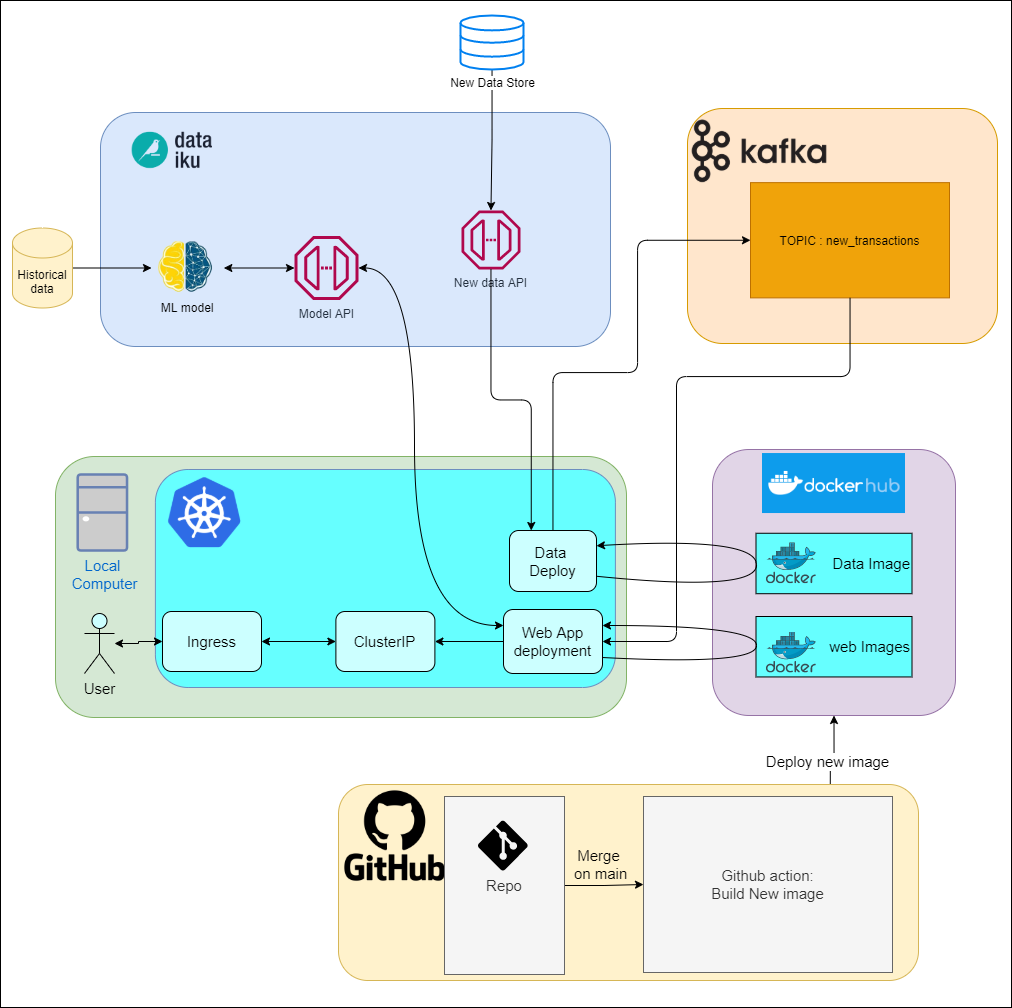
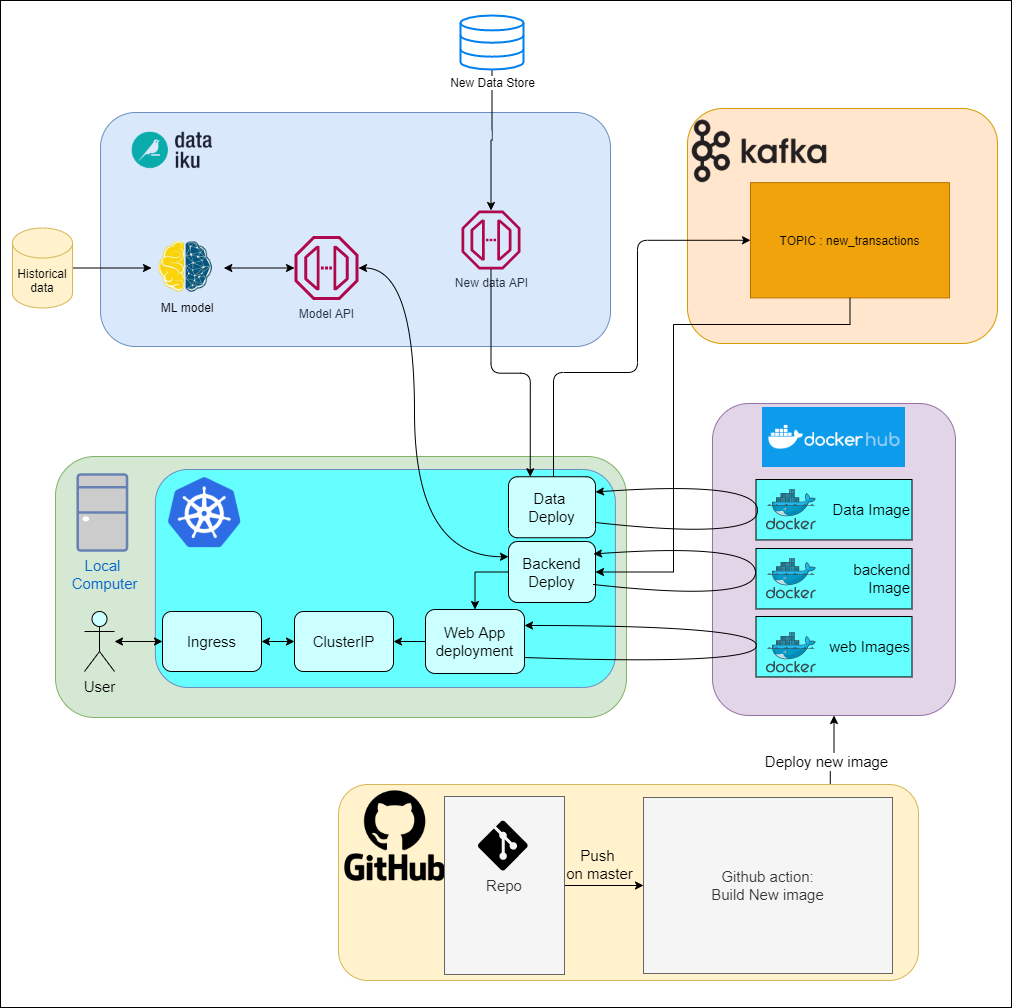
prod fix

diff --git a/webapp/main.py b/webapp/main.py
@@ -1,88 +1,16 @@
-import sys
-from confluent_kafka import Consumer, KafkaError, KafkaException
-import json
-from dotenv import load_dotenv
-import os
-import dataikuapi
-from pathlib import Path
+
 import streamlit as st
 import pandas as pd
 
-client = dataikuapi.APINodeClient("https://api-56ce4d5f-779f448b-dku.eu-west-3.app.dataiku.io/", "AdriPI")
-load_dotenv()
 
-path = Path(os.getenv('KAFKA_CONFIG', 'kafka_config.json'))
-data = path.read_text()
-
-TOPIC = os.getenv('KAFKA_TOPIC_NAME', 'new_transactions')
-config = json.loads(data)
-
-consumer = Consumer(config)
-
-running = True
-
-topics = [TOPIC]
-
-typess = {'age': 'int', 'class of worker': 'str', 'industry code': 'int', 'occupation code': 'int', 'education': 'str',
-          'wage per hour': 'int', 'enrolled in edu inst last wk': 'str', 'marital status': 'str',
-          'major industry code': 'str', 'major occupation code': 'str', 'race': 'str', 'hispanic Origin': 'str',
-          'sex': 'str', 'member of a labor union': 'str', 'reason for unemployment': 'str',
-          'full or part time employment stat': 'str', 'capital gains': 'int', 'capital losses': 'int',
-          'divdends from stocks': 'int', 'tax filer status': 'str', 'region of previous residence': 'str',
-          'state of previous residence': 'str', 'detailed household and family stat': 'str',
-          'detailed household summary in household': 'str', 'instance weight': 'float',
-          'migration code-change in msa': 'str', 'migration code-change in reg': 'str',
-          'migration code-move within reg': 'str', 'live in this house 1 year ago': 'str',
-          'migration prev res in sunbelt': 'str', 'num persons worked for employer': 'int',
-          'family members under 18': 'str', 'country of birth father': 'str', 'country of birth mother': 'str',
-          'country of birth self': 'str', 'citizenship': 'str', 'own business or self employed': 'int',
-          "fill inc questionnaire for veteran's admin": 'str', 'veterans benefits': 'int',
-          'weeks worked in year': 'int', 'year': 'int', 'income level': 'str'}
+def is_good(s):
+    return ['background-color: green'] * len(s) if s.good_prediction else ['background-color: red'] * len(s)
 
 
-def nulachier(values):
-    req: dict = json.loads(values.decode('utf8'))
-    df = pd.DataFrame(req, index=[0])
-    expected = req.pop("income level")
-    time_stamp = req.pop("timestamp")
-    print(time_stamp)
-    print(req)
-    temp = {i: eval(typess[i])(j) for i, j in req.items()}
-    prediction = client.predict_record("model_classifier", temp)
-    df["prediction"] = prediction["result"]["prediction"]
-    df["good_prediction"] = df["prediction"] == expected
-    ret = prediction["result"]
-    print(f"expected: {expected}, got: {ret['prediction']}")
-    return df
+pct = st.empty()
+test = st.empty()
 
-dff = None
-try:
-    consumer.subscribe(topics)
-
-    while running:
-        msg = consumer.poll(timeout=1.0)
-        if msg is None:
-            continue
-
-        if msg.error():
-            if msg.error().code() == KafkaError._PARTITION_EOF:
-                # End of partition event
-                sys.stderr.write('%% %s [%d] reached end at offset %d\n' %
-                                 (msg.topic(), msg.partition(), msg.offset()))
-            elif msg.error():
-                raise KafkaException(msg.error())
-        else:
-
-            print("doing int")
-
-            res = nulachier(msg.value())
-            if dff is None:
-                dff = res
-            else:
-                dff = pd.concat([dff, res])
-            st.write(dff)
-
-
-finally:
-    # Close down consumer to commit final offsets.
-    consumer.close()
+while True:
+    dff = pd.read_csv("/data/dataset.csv")
+    test.dataframe(dff.style.apply(is_good, axis=1))
+    pct.write(f"Percentage of good predictions: {dff['good_prediction'].mean() * 100:.2f}%")

diff --git a/backend/main.py b/backend/main.py
@@ -1,0 +1,97 @@
+import sys
+from confluent_kafka import Consumer, KafkaError, KafkaException
+import json
+from dotenv import load_dotenv
+import os
+import dataikuapi
+from pathlib import Path
+import streamlit as st
+import pandas as pd
+
+client = dataikuapi.APINodeClient("https://api-56ce4d5f-779f448b-dku.eu-west-3.app.dataiku.io/", "AdriPI")
+load_dotenv()
+
+path = Path(os.getenv('KAFKA_CONFIG', '../backend/kafka_config.json'))
+data = path.read_text()
+
+TOPIC = os.getenv('KAFKA_TOPIC_NAME', 'new_transactions')
+config = json.loads(data)
+
+consumer = Consumer(config)
+
+running = True
+
+topics = [TOPIC]
+
+typess = {'age': 'int', 'class of worker': 'str', 'industry code': 'int', 'occupation code': 'int', 'education': 'str',
+          'wage per hour': 'int', 'enrolled in edu inst last wk': 'str', 'marital status': 'str',
+          'major industry code': 'str', 'major occupation code': 'str', 'race': 'str', 'hispanic Origin': 'str',
+          'sex': 'str', 'member of a labor union': 'str', 'reason for unemployment': 'str',
+          'full or part time employment stat': 'str', 'capital gains': 'int', 'capital losses': 'int',
+          'divdends from stocks': 'int', 'tax filer status': 'str', 'region of previous residence': 'str',
+          'state of previous residence': 'str', 'detailed household and family stat': 'str',
+          'detailed household summary in household': 'str', 'instance weight': 'float',
+          'migration code-change in msa': 'str', 'migration code-change in reg': 'str',
+          'migration code-move within reg': 'str', 'live in this house 1 year ago': 'str',
+          'migration prev res in sunbelt': 'str', 'num persons worked for employer': 'int',
+          'family members under 18': 'str', 'country of birth father': 'str', 'country of birth mother': 'str',
+          'country of birth self': 'str', 'citizenship': 'str', 'own business or self employed': 'int',
+          "fill inc questionnaire for veteran's admin": 'str', 'veterans benefits': 'int',
+          'weeks worked in year': 'int', 'year': 'int', 'income level': 'str'}
+
+
+def is_good(s):
+    return ['background-color: green'] * len(s) if s.good_prediction else ['background-color: red'] * len(s)
+
+
+def nulachier(values, idx):
+    req: dict = json.loads(values.decode('utf8'))
+    df = pd.DataFrame(req, index=[idx])
+    expected = req.pop("income level")
+    time_stamp = req.pop("timestamp")
+    print(time_stamp)
+    print(req)
+    temp = {i: eval(typess[i])(j) for i, j in req.items()}
+    prediction = client.predict_record("model_classifier", temp)
+    df["prediction"] = prediction["result"]["prediction"]
+    df["good_prediction"] = df["prediction"] == expected
+    ret = prediction["result"]
+    print(f"expected: {expected}, got: {ret['prediction']}")
+    return df
+
+
+dff = None
+ind = 0
+pct = st.empty()
+test = st.empty()
+
+try:
+    consumer.subscribe(topics)
+
+    while running:
+        msg = consumer.poll(timeout=1.0)
+        if msg is None:
+            continue
+
+        if msg.error():
+            if msg.error().code() == KafkaError._PARTITION_EOF:
+                # End of partition event
+                sys.stderr.write('%% %s [%d] reached end at offset %d\n' %
+                                 (msg.topic(), msg.partition(), msg.offset()))
+            elif msg.error():
+                raise KafkaException(msg.error())
+        else:
+
+            print("doing int")
+
+            res = nulachier(msg.value(), ind)
+            ind += 1
+            if dff is None:
+                dff = res
+            else:
+                dff = pd.concat([dff, res])
+            dff.to_csv("/data/dataset.csv")
+
+finally:
+    # Close down consumer to commit final offsets.
+    consumer.close()
